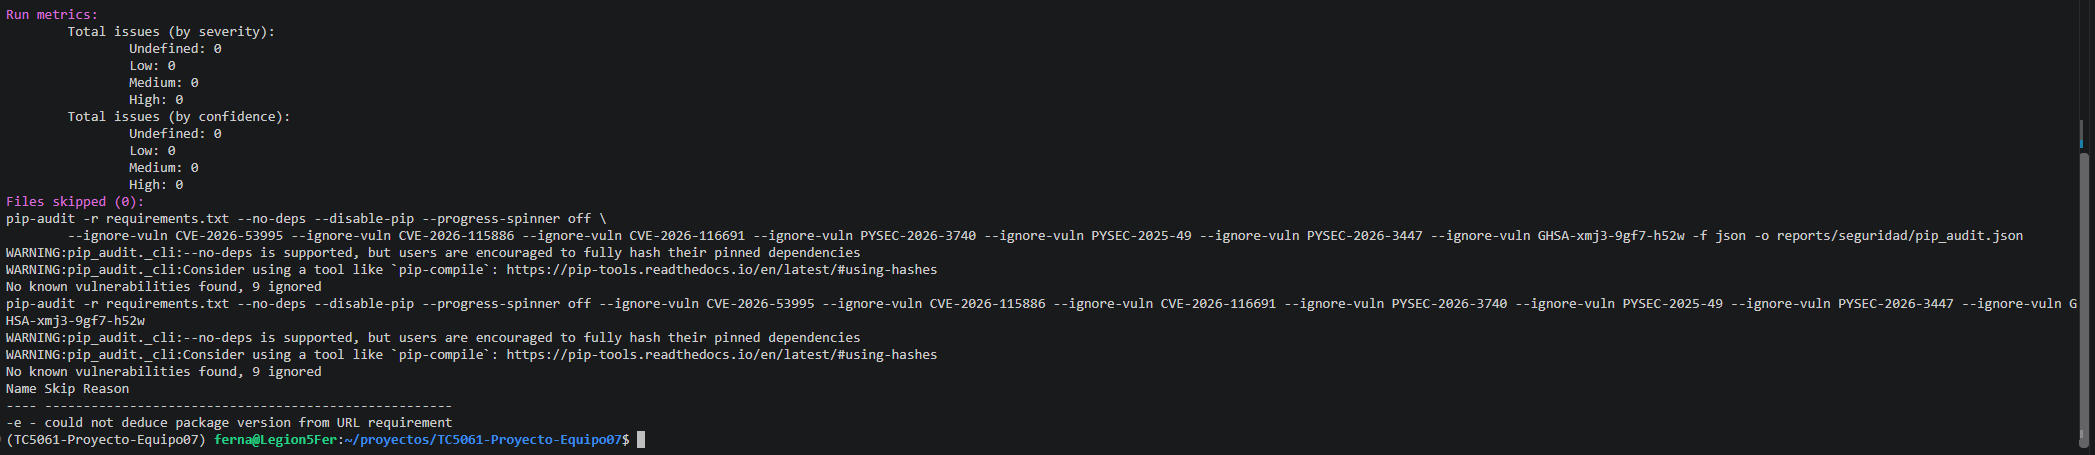
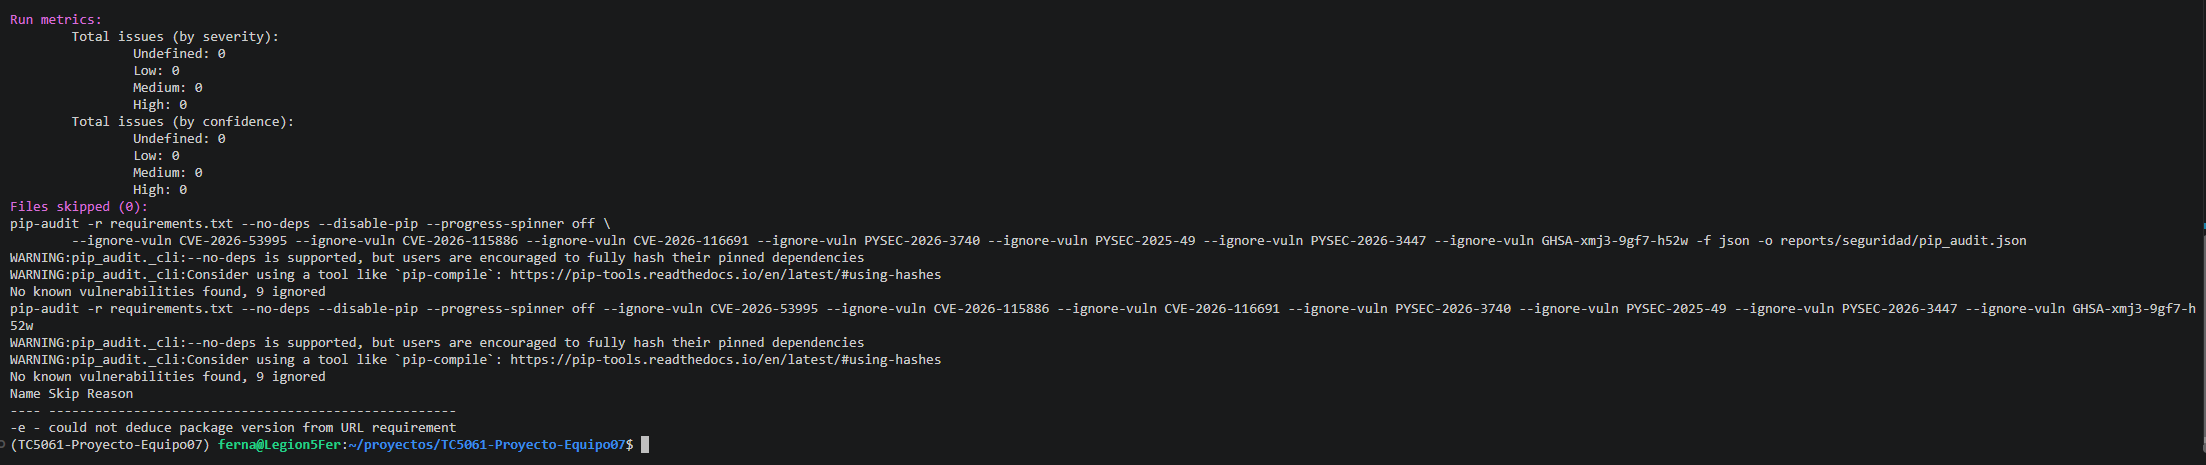
fix: se actualiza pyasn1 de 0.6.4 a 0.6.5 para corregir vulnerabilidad CVE-2026-119196 detectada por pip-audit

Changed region(s): [[0.0, 0.0, 1.0, 0.9846]]

diff --git a/README.md b/README.md
@@ -1149,7 +1149,7 @@ Reportes en `reports/validacion/`: `p3_tabla_completa.csv`, `p3_train_valid_inte
 | Revisión | Herramienta o práctica | Resultado |
 |---|---|---|
 | Código | bandit 1.9.4 sobre `tc5061_proyecto_equipo07/` | Sin hallazgos; 7 avisos de severidad baja justificados con `# nosec` |
-| Dependencias | pip-audit 2.10.1 sobre `requirements.txt` | De 55 vulnerabilidades conocidas a 0 sin justificar: 5 paquetes actualizados y 7 vulnerabilidades aceptadas. Dos avisos se publicaron durante la entrega y los detectó el CI: el de `mlflow` se aceptó y los 3 de `tornado` se corrigieron actualizando |
+| Dependencias | pip-audit 2.10.1 sobre `requirements.txt` | De 55 vulnerabilidades conocidas a 0 sin justificar: 6 paquetes actualizados y 7 vulnerabilidades aceptadas. Dos avisos se publicaron durante la entrega y los detectó el CI: el de `mlflow` se aceptó y los 3 de `tornado` se corrigieron actualizando |
 | Datos sensibles | `.gitignore`, `.env` y secret de GitHub | No se versionan credenciales, datos ni modelos |
 
 **bandit** analiza el código sin ejecutarlo y busca patrones inseguros (contraseñas en el código, `eval`, `pickle`, `subprocess` con shell, etc.). No se corre sobre `tests/` porque marca cada `assert`, que es como PyTest verifica los resultados. Los 7 avisos son las llamadas a `git rev-parse` de `p1_commit_actual`, `p2_commit_actual` y `p3_commit_actual` (B404, B603 y B607), que etiquetan cada run con su commit: los argumentos son fijos, no se usa shell y no entra ningún dato del usuario. Al correrlo, bandit imprime `nosec encountered ... but no failed test` en esas líneas; es un aviso conocido de bandit con llamadas de varias líneas y el resultado sigue siendo `No issues identified`.
@@ -1163,6 +1163,7 @@ Reportes en `reports/validacion/`: `p3_tabla_completa.csv`, `p3_train_valid_inte
 | `certifi` | 2026.7.22 | 2026.10.19 | 2 |
 | `gitpython` (vía `mlflow`) | 3.2.0 | 3.2.1 | 1 |
 | `tornado` (vía Jupyter) | 6.5.10 | 6.6 | 3 (publicadas durante la entrega; ver [Segunda vulnerabilidad detectada por el CI](#segunda-vulnerabilidad-detectada-por-el-ci-tornado)) |
+| `pyasn1` | 0.6.4 | 0.6.5 | 1 (publicada durante la entrega; ver [Tercera vulnerabilidad detectada por el CI](#tercera-vulnerabilidad-detectada-por-el-ci-pyasn1)) |
 
 Las restantes se revisaron y se aceptan; están en `PIP_AUDIT_IGNORAR` del `Makefile`, así que cualquier vulnerabilidad nueva hace fallar `make seguridad`:
 
@@ -1204,6 +1205,12 @@ Igual que la de `mlflow`, se publicó después de la primera revisión: unas hor
 - No se agregó nada a `PIP_AUDIT_IGNORAR`: la vulnerabilidad se corrige en lugar de justificarse.
 
 Como pip-audit consulta bases de datos que se actualizan a diario, un `requirements.txt` que pasa hoy puede fallar mañana sin cambiar una línea. Por eso conviene volver a correr `make seguridad` justo antes de entregar.
+
+#### Tercera vulnerabilidad detectada por el CI: pyasn1
+
+El 30 de octubre del 2026, el job `calidad` del PR hacia `main` falló en `make seguridad`: pip-audit encontró CVE-2026-119196 en `pyasn1` 0.6.4, corregida en 0.6.5. Se publicó después de la revisión anterior. `pyasn1` no es una dependencia directa; llega por `google-auth`, el cual llega de `databricks-sdk`.
+
+Igual que con `tornado`, se actualizó en lugar de aceptarla: `requirements.txt` pasa a `pyasn1==0.6.5`, `pip check` no reporta conflictos, la suite completa pasa (298 pruebas) y `make seguridad` termina sin vulnerabilidades nuevas. No se agregó nada a `PIP_AUDIT_IGNORAR`.
 
 **Datos sensibles:**
 
